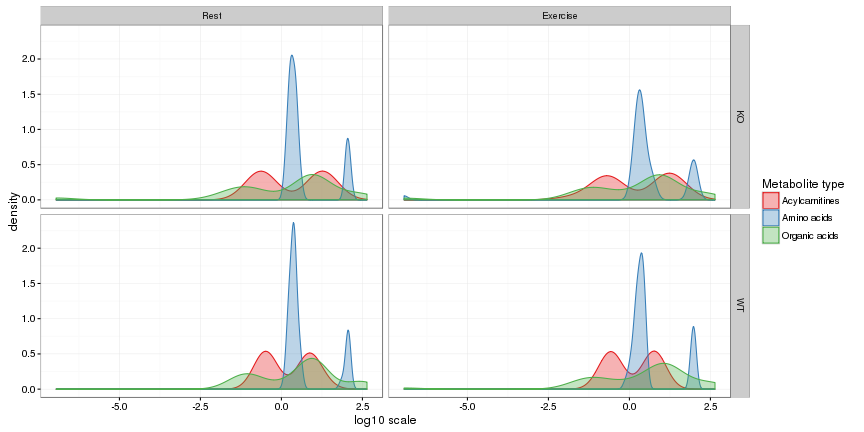
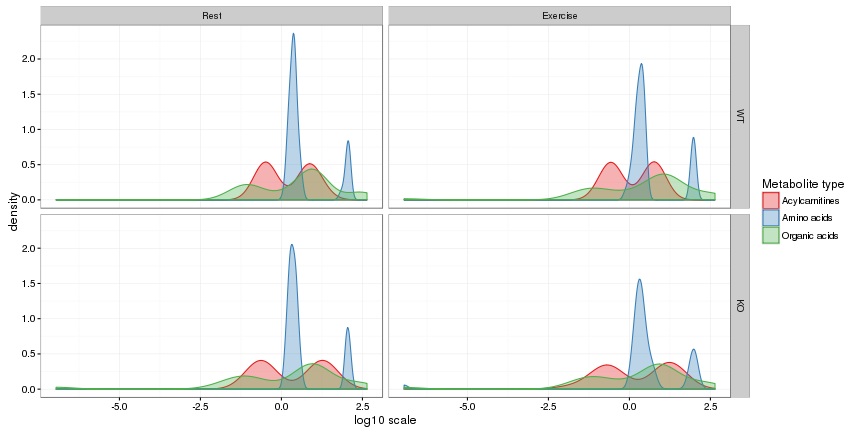
Build project; general correlation structure, fixed = TRUE

diff --git a/docs/index.md b/docs/index.md
@@ -1,6 +1,6 @@
 ---
 title: "Metabolomics of very long-chain aclCoA dehydrogenase knockout mice"
-date: "2016-12-12 15:06:58"
+date: "2016-12-12 15:28:01"
 author: Benjamin Chan (chanb@ohsu.edu)
 output:
   html_document:
@@ -348,8 +348,8 @@ table(D1$genotype, D1$metabolite_type)
 ```
 ##     
 ##      Acylcarnitines Amino acids Organic acids
-##   KO             42         105           168
 ##   WT             42         105           160
+##   KO             42         105           168
 ```
 
 ```r
@@ -405,8 +405,8 @@ table(D2$genotype, D2$metabolite_type)
 ```
 ##     
 ##      Acylcarnitines Amino acids Organic acids
-##   KO             84         105           147
 ##   WT             88         110           154
+##   KO             84         105           147
 ```
 
 ```r
@@ -505,44 +505,44 @@ summary(M)
 ## Random effects:
 ##  Formula: ~1 | id
 ##          (Intercept) Residual
-## StdDev: 4.239725e-05 1.341349
+## StdDev: 4.239754e-05 1.341349
 ## 
 ## Fixed effects: list(fixed) 
 ##                                              Value Std.Error  DF
-## (Intercept)                              0.2866230 0.2216337 576
-## genotypeWT                              -0.0975869 0.3137401  38
-## activityExercise                        -0.0327790 0.1513246  38
-## metabolite_typeAmino acids               0.3469524 0.2448957 576
-## metabolite_typeOrganic acids            -0.1101030 0.2314047 576
-## genotypeWT:activityExercise             -0.0500204 0.2156160  38
-## genotypeWT:metabolite_typeAmino acids    0.1732246 0.3463348 576
-## genotypeWT:metabolite_typeOrganic acids  0.4103840 0.3280974 576
+## (Intercept)                              0.1890360 0.2220616 576
+## genotypeKO                               0.0975869 0.3137401  38
+## activityExercise                        -0.0827994 0.1535940  38
+## metabolite_typeAmino acids               0.5201771 0.2448957 576
+## metabolite_typeOrganic acids             0.3002810 0.2325936 576
+## genotypeKO:activityExercise              0.0500204 0.2156160  38
+## genotypeKO:metabolite_typeAmino acids   -0.1732246 0.3463348 576
+## genotypeKO:metabolite_typeOrganic acids -0.4103840 0.3280974 576
 ##                                            t-value p-value
-## (Intercept)                              1.2932287  0.1965
-## genotypeWT                              -0.3110439  0.7575
-## activityExercise                        -0.2166142  0.8297
-## metabolite_typeAmino acids               1.4167357  0.1571
-## metabolite_typeOrganic acids            -0.4758028  0.6344
-## genotypeWT:activityExercise             -0.2319883  0.8178
-## genotypeWT:metabolite_typeAmino acids    0.5001652  0.6171
-## genotypeWT:metabolite_typeOrganic acids  1.2507994  0.2115
+## (Intercept)                              0.8512776  0.3950
+## genotypeKO                               0.3110439  0.7575
+## activityExercise                        -0.5390798  0.5930
+## metabolite_typeAmino acids               2.1240761  0.0341
+## metabolite_typeOrganic acids             1.2910116  0.1972
+## genotypeKO:activityExercise              0.2319883  0.8178
+## genotypeKO:metabolite_typeAmino acids   -0.5001652  0.6171
+## genotypeKO:metabolite_typeOrganic acids -1.2507994  0.2115
 ##  Correlation: 
-##                                         (Intr) gntyWT actvtE mtb_Aa mtb_Oa
-## genotypeWT                              -0.706                            
-## activityExercise                        -0.358  0.253                     
-## metabolite_typeAmino acids              -0.789  0.558  0.000              
-## metabolite_typeOrganic acids            -0.835  0.590  0.000  0.756       
-## genotypeWT:activityExercise              0.251 -0.360 -0.702  0.000  0.000
-## genotypeWT:metabolite_typeAmino acids    0.558 -0.788  0.000 -0.707 -0.535
-## genotypeWT:metabolite_typeOrganic acids  0.589 -0.829  0.000 -0.533 -0.705
-##                                         gnWT:E gWT:_Aa
-## genotypeWT                                            
+##                                         (Intr) gntyKO actvtE mtb_Aa mtb_Oa
+## genotypeKO                              -0.708                            
+## activityExercise                        -0.362  0.256                     
+## metabolite_typeAmino acids              -0.788  0.558  0.000              
+## metabolite_typeOrganic acids            -0.823  0.583 -0.017  0.752       
+## genotypeKO:activityExercise              0.258 -0.360 -0.712  0.000  0.012
+## genotypeKO:metabolite_typeAmino acids    0.557 -0.788  0.000 -0.707 -0.532
+## genotypeKO:metabolite_typeOrganic acids  0.584 -0.829  0.012 -0.533 -0.709
+##                                         gnKO:E gKO:_Aa
+## genotypeKO                                            
 ## activityExercise                                      
 ## metabolite_typeAmino acids                            
 ## metabolite_typeOrganic acids                          
-## genotypeWT:activityExercise                           
-## genotypeWT:metabolite_typeAmino acids    0.000        
-## genotypeWT:metabolite_typeOrganic acids -0.009  0.754 
+## genotypeKO:activityExercise                           
+## genotypeKO:metabolite_typeAmino acids    0.000        
+## genotypeKO:metabolite_typeOrganic acids -0.009  0.754 
 ## 
 ## Standardized Within-Group Residuals:
 ##         Min          Q1         Med          Q3         Max 
@@ -611,7 +611,7 @@ summary(M)
 ## Random effects:
 ##  Formula: ~1 | id
 ##         (Intercept) Residual
-## StdDev: 0.004510821 1.341347
+## StdDev: 0.004510822 1.341347
 ## 
 ## Correlation Structure: General
 ##  Formula: ~1 | id 
@@ -634,40 +634,40 @@ summary(M)
 ## 15 0 0 0 0 0 0 0 0 0 0  0  0  0  0 
 ## Fixed effects: list(fixed) 
 ##                                              Value Std.Error  DF
-## (Intercept)                              0.2866230 0.2216379 576
-## genotypeWT                              -0.0975868 0.3137461  38
-## activityExercise                        -0.0327790 0.1513372  38
-## metabolite_typeAmino acids               0.3469524 0.2448953 576
-## metabolite_typeOrganic acids            -0.1101030 0.2314043 576
-## genotypeWT:activityExercise             -0.0500206 0.2156338  38
-## genotypeWT:metabolite_typeAmino acids    0.1732246 0.3463343 576
-## genotypeWT:metabolite_typeOrganic acids  0.4103842 0.3280970 576
+## (Intercept)                              0.1890362 0.2220659 576
+## genotypeKO                               0.0975868 0.3137461  38
+## activityExercise                        -0.0827997 0.1536066  38
+## metabolite_typeAmino acids               0.5201771 0.2448953 576
+## metabolite_typeOrganic acids             0.3002812 0.2325933 576
+## genotypeKO:activityExercise              0.0500206 0.2156338  38
+## genotypeKO:metabolite_typeAmino acids   -0.1732246 0.3463343 576
+## genotypeKO:metabolite_typeOrganic acids -0.4103842 0.3280970 576
 ##                                            t-value p-value
-## (Intercept)                              1.2932039  0.1965
-## genotypeWT                              -0.3110376  0.7575
-## activityExercise                        -0.2165961  0.8297
-## metabolite_typeAmino acids               1.4167379  0.1571
-## metabolite_typeOrganic acids            -0.4758035  0.6344
-## genotypeWT:activityExercise             -0.2319702  0.8178
-## genotypeWT:metabolite_typeAmino acids    0.5001660  0.6171
-## genotypeWT:metabolite_typeOrganic acids  1.2508017  0.2115
+## (Intercept)                              0.8512618  0.3950
+## genotypeKO                               0.3110376  0.7575
+## activityExercise                        -0.5390370  0.5930
+## metabolite_typeAmino acids               2.1240794  0.0341
+## metabolite_typeOrganic acids             1.2910139  0.1972
+## genotypeKO:activityExercise              0.2319702  0.8178
+## genotypeKO:metabolite_typeAmino acids   -0.5001660  0.6171
+## genotypeKO:metabolite_typeOrganic acids -1.2508017  0.2115
 ##  Correlation: 
-##                                         (Intr) gntyWT actvtE mtb_Aa mtb_Oa
-## genotypeWT                              -0.706                            
-## activityExercise                        -0.358  0.253                     
-## metabolite_typeAmino acids              -0.789  0.558  0.000              
-## metabolite_typeOrganic acids            -0.835  0.590  0.000  0.756       
-## genotypeWT:activityExercise              0.251 -0.360 -0.702  0.000  0.000
-## genotypeWT:metabolite_typeAmino acids    0.558 -0.788  0.000 -0.707 -0.535
-## genotypeWT:metabolite_typeOrganic acids  0.589 -0.829  0.000 -0.533 -0.705
-##                                         gnWT:E gWT:_Aa
-## genotypeWT                                            
+##                                         (Intr) gntyKO actvtE mtb_Aa mtb_Oa
+## genotypeKO                              -0.708                            
+## activityExercise                        -0.362  0.256                     
+## metabolite_typeAmino acids              -0.788  0.558  0.000              
+## metabolite_typeOrganic acids            -0.823  0.583 -0.017  0.752       
+## genotypeKO:activityExercise              0.258 -0.360 -0.712  0.000  0.012
+## genotypeKO:metabolite_typeAmino acids    0.557 -0.788  0.000 -0.707 -0.532
+## genotypeKO:metabolite_typeOrganic acids  0.584 -0.829  0.012 -0.533 -0.709
+##                                         gnKO:E gKO:_Aa
+## genotypeKO                                            
 ## activityExercise                                      
 ## metabolite_typeAmino acids                            
 ## metabolite_typeOrganic acids                          
-## genotypeWT:activityExercise                           
-## genotypeWT:metabolite_typeAmino acids    0.000        
-## genotypeWT:metabolite_typeOrganic acids -0.009  0.754 
+## genotypeKO:activityExercise                           
+## genotypeKO:metabolite_typeAmino acids    0.000        
+## genotypeKO:metabolite_typeOrganic acids -0.009  0.754 
 ## 
 ## Standardized Within-Group Residuals:
 ##         Min          Q1         Med          Q3         Max 
@@ -707,44 +707,44 @@ summary(M)
 ## Random effects:
 ##  Formula: ~1 | id
 ##          (Intercept) Residual
-## StdDev: 3.091437e-05 1.039132
+## StdDev: 3.091411e-05 1.039132
 ## 
 ## Fixed effects: list(fixed) 
 ##                                              Value Std.Error  DF   t-value
-## (Intercept)                              0.5684638 0.1256035 641  4.525861
-## genotypeWT                              -0.4765655 0.1763923  39 -2.701737
-## chowYellow (C8)                          0.0055242 0.1135074  39  0.048668
-## metabolite_typeAmino acids               0.0702769 0.1521133 641  0.462003
-## metabolite_typeOrganic acids            -0.0232650 0.1421276 641 -0.163691
-## genotypeWT:chowYellow (C8)               0.0389779 0.1586011  39  0.245760
-## genotypeWT:metabolite_typeAmino acids    0.4936399 0.2126621 641  2.321240
-## genotypeWT:metabolite_typeOrganic acids  0.4376502 0.1987016 641  2.202550
+## (Intercept)                              0.0918984 0.1238467 641  0.742033
+## genotypeKO                               0.4765655 0.1763923  39  2.701737
+## chowYellow (C8)                          0.0445021 0.1107718  39  0.401745
+## metabolite_typeAmino acids               0.5639168 0.1486160 641  3.794455
+## metabolite_typeOrganic acids             0.4143852 0.1388599 641  2.984198
+## genotypeKO:chowYellow (C8)              -0.0389779 0.1586011  39 -0.245760
+## genotypeKO:metabolite_typeAmino acids   -0.4936399 0.2126621 641 -2.321240
+## genotypeKO:metabolite_typeOrganic acids -0.4376502 0.1987016 641 -2.202550
 ##                                         p-value
-## (Intercept)                              0.0000
-## genotypeWT                               0.0102
-## chowYellow (C8)                          0.9614
-## metabolite_typeAmino acids               0.6442
-## metabolite_typeOrganic acids             0.8700
-## genotypeWT:chowYellow (C8)               0.8072
-## genotypeWT:metabolite_typeAmino acids    0.0206
-## genotypeWT:metabolite_typeOrganic acids  0.0280
+## (Intercept)                              0.4583
+## genotypeKO                               0.0102
+## chowYellow (C8)                          0.6901
+## metabolite_typeAmino acids               0.0002
+## metabolite_typeOrganic acids             0.0030
+## genotypeKO:chowYellow (C8)               0.8072
+## genotypeKO:metabolite_typeAmino acids    0.0206
+## genotypeKO:metabolite_typeOrganic acids  0.0280
 ##  Correlation: 
-##                                         (Intr) gntyWT cY(C8) mtb_Aa mtb_Oa
-## genotypeWT                              -0.712                            
-## chowYellow (C8)                         -0.430  0.306                     
-## metabolite_typeAmino acids              -0.673  0.479  0.000              
-## metabolite_typeOrganic acids            -0.720  0.513  0.000  0.595       
-## genotypeWT:chowYellow (C8)               0.308 -0.439 -0.716  0.000  0.000
-## genotypeWT:metabolite_typeAmino acids    0.481 -0.670  0.000 -0.715 -0.425
-## genotypeWT:metabolite_typeOrganic acids  0.515 -0.717  0.000 -0.425 -0.715
-##                                         gWT:Y( gWT:_Aa
-## genotypeWT                                            
+##                                         (Intr) gntyKO cY(C8) mtb_Aa mtb_Oa
+## genotypeKO                              -0.702                            
+## chowYellow (C8)                         -0.447  0.314                     
+## metabolite_typeAmino acids              -0.667  0.468  0.000              
+## metabolite_typeOrganic acids            -0.714  0.501  0.000  0.595       
+## genotypeKO:chowYellow (C8)               0.312 -0.439 -0.698  0.000  0.000
+## genotypeKO:metabolite_typeAmino acids    0.466 -0.670  0.000 -0.699 -0.416
+## genotypeKO:metabolite_typeOrganic acids  0.499 -0.717  0.000 -0.416 -0.699
+##                                         gKO:Y( gKO:_Aa
+## genotypeKO                                            
 ## chowYellow (C8)                                       
 ## metabolite_typeAmino acids                            
 ## metabolite_typeOrganic acids                          
-## genotypeWT:chowYellow (C8)                            
-## genotypeWT:metabolite_typeAmino acids    0.000        
-## genotypeWT:metabolite_typeOrganic acids  0.000  0.595 
+## genotypeKO:chowYellow (C8)                            
+## genotypeKO:metabolite_typeAmino acids    0.000        
+## genotypeKO:metabolite_typeOrganic acids  0.000  0.595 
 ## 
 ## Standardized Within-Group Residuals:
 ##        Min         Q1        Med         Q3        Max 
@@ -842,40 +842,40 @@ summary(M)
 ## 16 0 0 0 0 0 0 0 0 0 0  0  0  0  0  0 
 ## Fixed effects: list(fixed) 
 ##                                              Value Std.Error  DF   t-value
-## (Intercept)                              0.5684638 0.1256069 641  4.525736
-## genotypeWT                              -0.4765655 0.1763972  39 -2.701661
-## chowYellow (C8)                          0.0055242 0.1135156  39  0.048665
-## metabolite_typeAmino acids               0.0702769 0.1521132 641  0.462004
-## metabolite_typeOrganic acids            -0.0232650 0.1421274 641 -0.163691
-## genotypeWT:chowYellow (C8)               0.0389779 0.1586127  39  0.245742
-## genotypeWT:metabolite_typeAmino acids    0.4936399 0.2126619 641  2.321243
-## genotypeWT:metabolite_typeOrganic acids  0.4376502 0.1987013 641  2.202553
+## (Intercept)                              0.0918984 0.1238502 641  0.742012
+## genotypeKO                               0.4765655 0.1763972  39  2.701661
+## chowYellow (C8)                          0.0445021 0.1107799  39  0.401716
+## metabolite_typeAmino acids               0.5639168 0.1486158 641  3.794459
+## metabolite_typeOrganic acids             0.4143852 0.1388597 641  2.984201
+## genotypeKO:chowYellow (C8)              -0.0389779 0.1586127  39 -0.245742
+## genotypeKO:metabolite_typeAmino acids   -0.4936399 0.2126619 641 -2.321243
+## genotypeKO:metabolite_typeOrganic acids -0.4376502 0.1987013 641 -2.202553
 ##                                         p-value
-## (Intercept)                              0.0000
-## genotypeWT                               0.0102
-## chowYellow (C8)                          0.9614
-## metabolite_typeAmino acids               0.6442
-## metabolite_typeOrganic acids             0.8700
-## genotypeWT:chowYellow (C8)               0.8072
-## genotypeWT:metabolite_typeAmino acids    0.0206
-## genotypeWT:metabolite_typeOrganic acids  0.0280
+## (Intercept)                              0.4584
+## genotypeKO                               0.0102
+## chowYellow (C8)                          0.6901
+## metabolite_typeAmino acids               0.0002
+## metabolite_typeOrganic acids             0.0030
+## genotypeKO:chowYellow (C8)               0.8072
+## genotypeKO:metabolite_typeAmino acids    0.0206
+## genotypeKO:metabolite_typeOrganic acids  0.0280
 ##  Correlation: 
-##                                         (Intr) gntyWT cY(C8) mtb_Aa mtb_Oa
-## genotypeWT                              -0.712                            
-## chowYellow (C8)                         -0.430  0.306                     
-## metabolite_typeAmino acids              -0.673  0.479  0.000              
-## metabolite_typeOrganic acids            -0.720  0.513  0.000  0.595       
-## genotypeWT:chowYellow (C8)               0.308 -0.439 -0.716  0.000  0.000
-## genotypeWT:metabolite_typeAmino acids    0.481 -0.670  0.000 -0.715 -0.425
-## genotypeWT:metabolite_typeOrganic acids  0.515 -0.717  0.000 -0.425 -0.715
-##                                         gWT:Y( gWT:_Aa
-## genotypeWT                                            
+##                                         (Intr) gntyKO cY(C8) mtb_Aa mtb_Oa
+## genotypeKO                              -0.702                            
+## chowYellow (C8)                         -0.447  0.314                     
+## metabolite_typeAmino acids              -0.667  0.468  0.000              
+## metabolite_typeOrganic acids            -0.713  0.501  0.000  0.595       
+## genotypeKO:chowYellow (C8)               0.312 -0.439 -0.698  0.000  0.000
+## genotypeKO:metabolite_typeAmino acids    0.466 -0.670  0.000 -0.699 -0.416
+## genotypeKO:metabolite_typeOrganic acids  0.499 -0.717  0.000 -0.416 -0.699
+##                                         gKO:Y( gKO:_Aa
+## genotypeKO                                            
 ## chowYellow (C8)                                       
 ## metabolite_typeAmino acids                            
 ## metabolite_typeOrganic acids                          
-## genotypeWT:chowYellow (C8)                            
-## genotypeWT:metabolite_typeAmino acids    0.000        
-## genotypeWT:metabolite_typeOrganic acids  0.000  0.595 
+## genotypeKO:chowYellow (C8)                            
+## genotypeKO:metabolite_typeAmino acids    0.000        
+## genotypeKO:metabolite_typeOrganic acids  0.000  0.595 
 ## 
 ## Standardized Within-Group Residuals:
 ##         Min          Q1         Med          Q3         Max 
